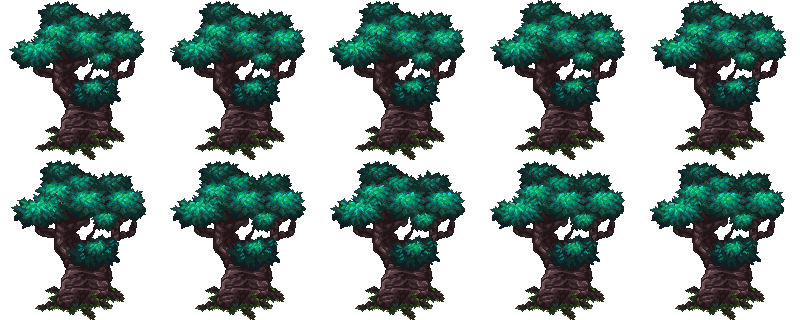
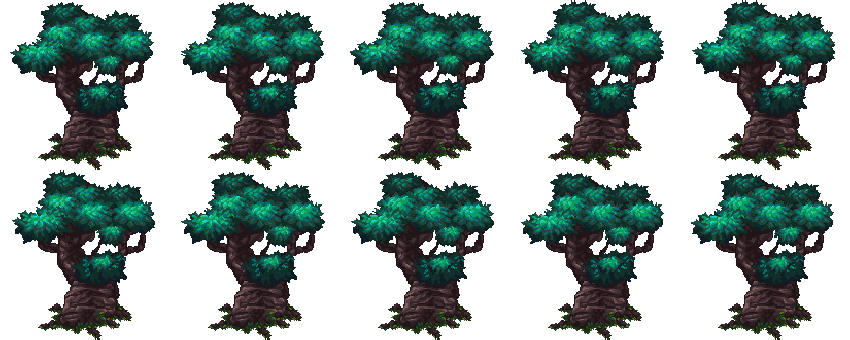
Fixed potential pixel bleedings on spritesheet anims

diff --git a/game/maps/SW_TileAnimationsManager.ts b/game/maps/SW_TileAnimationsManager.ts
@@ -75,7 +75,7 @@ export class SW_TileAnimationsManager extends Phaser.Events.EventEmitter {
             }
             else {
                 this.scene.load.once(`${Phaser.Loader.Events.FILE_KEY_COMPLETE}spritesheet-${tileTexture}`, this.onTileTextureLoaded, this);
-                this.scene.load.spritesheet(tileTexture, `/game/assets/maps/${this.worldName}/tileAnimations/${tileTexture}.png`, { frameWidth: 32, frameHeight: 32 });
+                this.scene.load.spritesheet(tileTexture, `/game/assets/maps/${this.worldName}/tileAnimations/${tileTexture}.png`, { frameWidth: 32, frameHeight: 32, margin: 1, spacing: 2 });
             }
         }
         this.scene.load.start();
